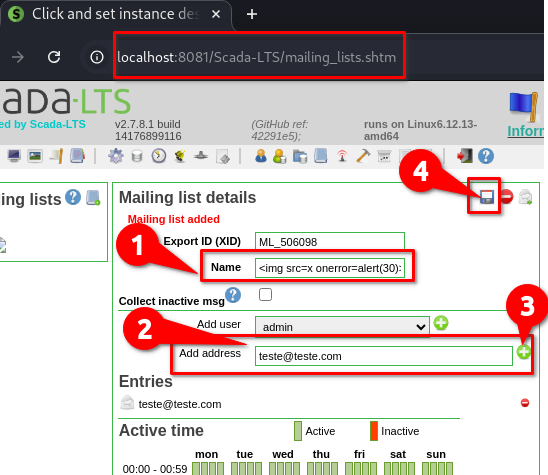
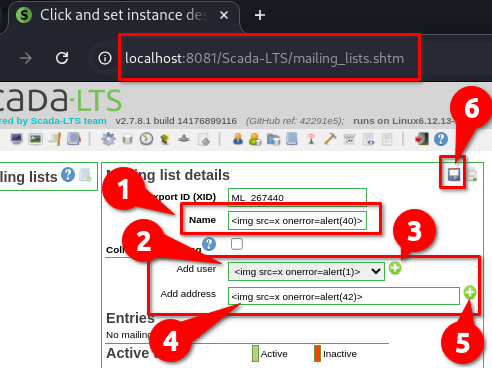
Update CVEs

diff --git a/CVEs/Scada-LTS/3.md b/CVEs/Scada-LTS/3.md
@@ -1,8 +1,8 @@
-# Cross-Site Scripting (XSS) Stored endpoint `mailing_lists.shtm` parameter `name`
+# Multiples Stored Cross-Site Scripting (XSS) in `mailing_lists.shtm`
 
 ### Summary
 
-<p align="justify">A Stored Cross-Site Scripting (XSS) vulnerability was identified in the <code>mailing_lists.shtm</code> endpoint of the Scada-LTS application. This vulnerability allows attackers to inject malicious scripts into the <code>name</code> parameter. The injected scripts are stored on the server and executed automatically whenever the affected page is accessed by users, posing a significant security risk.</p>
+<p align="justify">Multiples Stored Cross-Site Scripting (XSS) vulnerability was identified in the <code>mailing_lists.shtm</code> endpoint of the Scada-LTS application. This vulnerability allows attackers to inject malicious scripts into the <code>name</code>, <code>userList</code> and <code>address</code> parameters. The injected scripts are stored on the server and executed automatically whenever the affected page is accessed by users, posing a significant security risk.</p>
 
 ---
 
@@ -10,9 +10,9 @@
 
 Vulnerable Endpoint: `mailing_lists.shtm`
 
-Parameter: `name`
+Parameters: `name`,`userList` and `address`
 
-<p align="justify">The application fails to properly validate and sanitize user inputs in the <code>name</code> parameter. This lack of validation allows attackers to inject malicious scripts, which are then stored on the server. Whenever the affected page is accessed, the malicious payload is executed in the victim's browser, potentially compromising the user's data and system.</p>
+<p align="justify">The application fails to properly validate and sanitize user inputs in the <code>name</code>, <code>userList</code> and <code>address</code> parameters. This lack of validation allows attackers to inject malicious scripts, which are then stored on the server. Whenever the affected page is accessed, the malicious payload is executed in the victim's browser, potentially compromising the user's data and system.</p>
 
 ---
 
@@ -20,14 +20,21 @@ Parameter: `name`
 
 #### Step by Step:
 
-<p align="justify">Access vulnerable endpoint, insert the payload in second field (<code>"Name"</code>), in the fourth field (<code>"Add address"</code>) type any email like <code>"test@test.com"</code>, click on <code>"+"</code> to add the required address, click on <code>"disk"</code> to save and the payload will be activated automatically.</p>
+<p align="justify">Access vulnerable endpoint, insert the payload in second field (<code>"Name"</code>).</p>
+
+##
+<p align="justify"><b>Note:</b> As admin, you can add a test user in <code>users.shtm</code> page with the same payload, select the <code>test</code> user (named with the paylod) and click on <code>"+"</code> to add the xss in third field (<code>"Add user"</code>) (Steps 2 and 3). The payload will be activated automatically.</p>
+
+##
+
+<p align="justify">Insert the paylod in fourth field (<code>"Add address"</code>), click on <code>"+"</code> to add. The payload will be activated automatically. Then, click on <code>"disk"</code> to save and the payloads will be activated automatically.</p>
 
 ##
 
 #### Payload:
 
 ````html
-<img src=x onerror=alert(30)>
+<img src=x onerror=alert(40)>
 ````
 </br>
 
@@ -36,6 +43,10 @@ Parameter: `name`
 ![](/CVEs/images/storedXss31.png)
 
 ![](/CVEs/images/storedXss32.png)
+
+![](/CVEs/images/storedXss36.png)
+
+![](/CVEs/images/storedXss37.png)
 
 ----
 
@@ -58,8 +69,13 @@ Parameter: `name`
 
 ### Finder
 
-[Karina Gante](https://karinagante.github.io/)
+*Discovered with💜 by [Karina Gante](https://karinagante.github.io/).* 
+
+[![LinkedIn](https://skillicons.dev/icons?i=linkedin&theme=dark)](https://www.linkedin.com/in/karina-gante/)
+[![GitHub](https://skillicons.dev/icons?i=github&theme=dark)](https://www.github.com/KarinaGante/)
+[![gmail](https://skillicons.dev/icons?i=gmail&theme=dark)](mailto:karina.g@aluno.ifsp.edu.br)
+[![Instagram](https://skillicons.dev/icons?i=instagram&theme=dark)](https://www.instagram.com/karinovisk02/)
 
 ##
 
-*by [CVE-Hunters](https://github.com/CVE-Hunters/cve-hunters)*
+*Official Member of [CVE-Hunters](https://github.com/CVE-Hunters/cve-hunters)🏹*

diff --git a/CVEs/Scada-LTS/5.md b/CVEs/Scada-LTS/5.md
@@ -1,0 +1,80 @@
+# Stored Cross-Site Scripting (XSS) Injection via SVG File Upload Bypass
+
+### Summary
+
+<p align="justify">A Stored Cross-Site Scripting (XSS) via SVG File Upload Bypass vulnerability was identified in the <code>view_edit.shtm</code> endpoint of the Scada-LTS application. This vulnerability allows attackers to upload malicious files into the <code>backgroundImageMP</code> parameter. The injected files are stored on the server and executed automatically whenever the affected page is accessed by users, posing a significant security risk.</p>
+
+---
+
+### Details
+
+Vulnerable Endpoint: `view_edit.shtm`
+
+Parameter: `backgroundImageMP`
+
+Trigger Page: `/uploads/[ID].svg`
+
+<p align="justify">The application fails to properly validate and sanitize user inputs in the <code>backgroundImageMP</code> parameter. This lack of validation allows attackers to inject malicious scripts, which are then stored on the server. Whenever the affected page is accessed, the malicious payload is executed in the victim's browser, potentially compromising the user's data and system.</p>
+
+---
+
+### PoC
+
+#### Step by Step:
+
+<p align="justify">Save the payload in the <code>xss.svg</code> file.</p>
+
+<p align="justify">After, access the <code>views.shtm</code> page, and click on <code>"computer +"</code> to add a new <code>"view"</code>, click on <code>"Escolher arquivo"</code> button to choose the malicious file, then click on <code>"Upload image"</code> button to upload the file, after that, click on <code>"Save"</code> button. Access the file by the trigger page.</p>
+
+##
+
+#### Payload:
+
+````html
+<svg xmlns=""http://www.w3.org/2000/svg"" fill=""none"">
+  <script>
+    alert(""This is an XSS-POC from CVEHUNTERS"");
+  </script>
+</svg>
+````
+</br>
+
+![](/CVEs/images/storedXss38.png)
+
+![](/CVEs/images/storedXss39.png)
+
+![](/CVEs/images/storedXss40.png)
+
+![](/CVEs/images/storedXss41.png)
+
+----
+
+### Impact
+
+<p align="justify">
+<ul>
+  <li>Stealing session cookies: Attackers can use stolen session cookies to hijack a user's session and perform actions on their behalf.</li>
+  <li>Downloading malware: Attackers can trick users into downloading and installing malware on their computers.</li>
+  <li>Hijacking browsers: Attackers can hijack a user's browser or deliver browser-based exploits.</li>
+  <li>Stealing credentials: Attackers can steal a user's credentials.</li>
+  <li>Obtaining sensitive information: Attackers can obtain sensitive information stored in a user's account or in their browser.</li>
+  <li>Defacing websites: Attackers can deface a website by altering its content.</li>
+  <li>Misdirecting users: Attackers can change the instructions given to users who visit the target website, misdirecting their behavior.</li>
+  <li>Damaging a business's reputation: Attackers can damage a business's image or spread misinformation by defacing a corporate website.</li>
+</ul>
+</p>
+
+---
+
+### Finder
+
+*Discovered with💜 by [Karina Gante](https://karinagante.github.io/).* 
+
+[![LinkedIn](https://skillicons.dev/icons?i=linkedin&theme=dark)](https://www.linkedin.com/in/karina-gante/)
+[![GitHub](https://skillicons.dev/icons?i=github&theme=dark)](https://www.github.com/KarinaGante/)
+[![gmail](https://skillicons.dev/icons?i=gmail&theme=dark)](mailto:karina.g@aluno.ifsp.edu.br)
+[![Instagram](https://skillicons.dev/icons?i=instagram&theme=dark)](https://www.instagram.com/karinovisk02/)
+
+##
+
+*Official Member of [CVE-Hunters](https://github.com/CVE-Hunters/cve-hunters)🏹*

diff --git a/CVEs/Scada-LTS/2.md b/CVEs/Scada-LTS/2.md
@@ -1,8 +1,8 @@
-# Cross-Site Scripting (XSS) Stored endpoint `pointHierarchy/new/` via path parameter
+# Stored Cross-Site Scripting (XSS) in endpoint `pointHierarchy/new/` via path parameter
 
 ### Summary
 
-<p align="justify">A Stored Cross-Site Scripting (XSS) vulnerability was identified in the <code>pointHierarchySLTS</code> endpoint of the Scada-LTS application. This vulnerability allows attackers to inject malicious scripts via <code>path parameter</code> parameter. The injected scripts are stored on the server and executed automatically whenever the affected page is accessed by users, posing a significant security risk.</p>
+<p align="justify">A Stored Cross-Site Scripting (XSS) vulnerability was identified in the <code>pointHierarchySLTS</code> endpoint of the Scada-LTS application. This vulnerability allows attackers to inject malicious scripts via <code>path parameter</code>. The injected scripts are stored on the server and executed automatically whenever the affected page is accessed by users, posing a significant security risk.</p>
 
 ---
 
@@ -56,8 +56,13 @@ Vulnerable Endpoint: `pointHierarchy/new/`
 
 ### Finder
 
-[Karina Gante](https://karinagante.github.io/)
+*Discovered with💜 by [Karina Gante](https://karinagante.github.io/).* 
+
+[![LinkedIn](https://skillicons.dev/icons?i=linkedin&theme=dark)](https://www.linkedin.com/in/karina-gante/)
+[![GitHub](https://skillicons.dev/icons?i=github&theme=dark)](https://www.github.com/KarinaGante/)
+[![gmail](https://skillicons.dev/icons?i=gmail&theme=dark)](mailto:karina.g@aluno.ifsp.edu.br)
+[![Instagram](https://skillicons.dev/icons?i=instagram&theme=dark)](https://www.instagram.com/karinovisk02/)
 
 ##
 
-*by [CVE-Hunters](https://github.com/CVE-Hunters/cve-hunters)*
+*Official Member of [CVE-Hunters](https://github.com/CVE-Hunters/cve-hunters)🏹*

diff --git a/CVEs/i-educar/8.md b/CVEs/i-educar/8.md
@@ -1,4 +1,4 @@
-# Cross-Site Scripting (XSS) Stored endpoint `educar_motivo_afastamento_cad.php` parameter `nm_motivo`
+# Stored Cross-Site Scripting (XSS) in endpoint `educar_motivo_afastamento_cad.php` parameter `nm_motivo`
 
 ### Summary
 
@@ -60,8 +60,13 @@ Trigger Page: `/intranet/educar_motivo_afastamento_lst.php`
 
 ### Finder
 
-[Karina Gante](https://karinagante.github.io/)
+*Discovered with💜 by [Karina Gante](https://karinagante.github.io/).* 
+
+[![LinkedIn](https://skillicons.dev/icons?i=linkedin&theme=dark)](https://www.linkedin.com/in/karina-gante/)
+[![GitHub](https://skillicons.dev/icons?i=github&theme=dark)](https://www.github.com/KarinaGante/)
+[![gmail](https://skillicons.dev/icons?i=gmail&theme=dark)](mailto:karina.g@aluno.ifsp.edu.br)
+[![Instagram](https://skillicons.dev/icons?i=instagram&theme=dark)](https://www.instagram.com/karinovisk02/)
 
 ##
 
-*by [CVE-Hunters](https://github.com/CVE-Hunters/cve-hunters)*
+*Official Member of [CVE-Hunters](https://github.com/CVE-Hunters/cve-hunters)🏹*

diff --git a/CVEs/i-educar/3.md b/CVEs/i-educar/3.md
@@ -1,4 +1,4 @@
-# Cross-Site Scripting (XSS) Stored endpoint `public_municipio_cad.php` parameter `nome`
+# Stored Cross-Site Scripting (XSS) in endpoint `public_municipio_cad.php` parameter `nome`
 
 ### Summary
 
@@ -60,8 +60,13 @@ Trigger Page: `/intranet/public_municipio_lst.php`
 
 ### Finder
 
-[Karina Gante](https://karinagante.github.io/)
+*Discovered with💜 by [Karina Gante](https://karinagante.github.io/).* 
+
+[![LinkedIn](https://skillicons.dev/icons?i=linkedin&theme=dark)](https://www.linkedin.com/in/karina-gante/)
+[![GitHub](https://skillicons.dev/icons?i=github&theme=dark)](https://www.github.com/KarinaGante/)
+[![gmail](https://skillicons.dev/icons?i=gmail&theme=dark)](mailto:karina.g@aluno.ifsp.edu.br)
+[![Instagram](https://skillicons.dev/icons?i=instagram&theme=dark)](https://www.instagram.com/karinovisk02/)
 
 ##
 
-*by [CVE-Hunters](https://github.com/CVE-Hunters/cve-hunters)*
+*Official Member of [CVE-Hunters](https://github.com/CVE-Hunters/cve-hunters)🏹*

diff --git a/CVEs/i-educar/2.md b/CVEs/i-educar/2.md
@@ -1,4 +1,4 @@
-# Cross-Site Scripting (XSS) Stored endpoint `public_distrito_cad.php` parameter `nome`
+# Stored Cross-Site Scripting (XSS) in endpoint `public_distrito_cad.php` parameter `nome`
 
 ### Summary
 
@@ -60,8 +60,13 @@ Trigger Page: `/intranet/public_distrito_lst.php`
 
 ### Finder
 
-[Karina Gante](https://karinagante.github.io/)
+*Discovered with💜 by [Karina Gante](https://karinagante.github.io/).* 
+
+[![LinkedIn](https://skillicons.dev/icons?i=linkedin&theme=dark)](https://www.linkedin.com/in/karina-gante/)
+[![GitHub](https://skillicons.dev/icons?i=github&theme=dark)](https://www.github.com/KarinaGante/)
+[![gmail](https://skillicons.dev/icons?i=gmail&theme=dark)](mailto:karina.g@aluno.ifsp.edu.br)
+[![Instagram](https://skillicons.dev/icons?i=instagram&theme=dark)](https://www.instagram.com/karinovisk02/)
 
 ##
 
-*by [CVE-Hunters](https://github.com/CVE-Hunters/cve-hunters)*
+*Official Member of [CVE-Hunters](https://github.com/CVE-Hunters/cve-hunters)🏹*

diff --git a/CVEs/i-educar/6.md b/CVEs/i-educar/6.md
@@ -1,4 +1,4 @@
-# Cross-Site Scripting (XSS) Stored endpoint `educar_raca_cad.php` parameter `nm_raca`
+# Stored Cross-Site Scripting (XSS) in endpoint `educar_raca_cad.php` parameter `nm_raca`
 
 ### Summary
 
@@ -60,8 +60,13 @@ Trigger Page: `/intranet/educar_raca_lst.php`
 
 ### Finder
 
-[Karina Gante](https://karinagante.github.io/)
+*Discovered with💜 by [Karina Gante](https://karinagante.github.io/).* 
+
+[![LinkedIn](https://skillicons.dev/icons?i=linkedin&theme=dark)](https://www.linkedin.com/in/karina-gante/)
+[![GitHub](https://skillicons.dev/icons?i=github&theme=dark)](https://www.github.com/KarinaGante/)
+[![gmail](https://skillicons.dev/icons?i=gmail&theme=dark)](mailto:karina.g@aluno.ifsp.edu.br)
+[![Instagram](https://skillicons.dev/icons?i=instagram&theme=dark)](https://www.instagram.com/karinovisk02/)
 
 ##
 
-*by [CVE-Hunters](https://github.com/CVE-Hunters/cve-hunters)*
+*Official Member of [CVE-Hunters](https://github.com/CVE-Hunters/cve-hunters)🏹*

diff --git a/CVEs/i-educar/7.md b/CVEs/i-educar/7.md
@@ -1,4 +1,4 @@
-# Cross-Site Scripting (XSS) Stored endpoint `RegraAvaliacao/edit` parameter `nome`
+# Stored Cross-Site Scripting (XSS) in endpoint `RegraAvaliacao/edit` parameter `nome`
 
 ### Summary
 
@@ -62,8 +62,13 @@ Trigger Page: `/module/RegraAvaliacao/index`
 
 ### Finder
 
-[Karina Gante](https://karinagante.github.io/)
+*Discovered with💜 by [Karina Gante](https://karinagante.github.io/).* 
+
+[![LinkedIn](https://skillicons.dev/icons?i=linkedin&theme=dark)](https://www.linkedin.com/in/karina-gante/)
+[![GitHub](https://skillicons.dev/icons?i=github&theme=dark)](https://www.github.com/KarinaGante/)
+[![gmail](https://skillicons.dev/icons?i=gmail&theme=dark)](mailto:karina.g@aluno.ifsp.edu.br)
+[![Instagram](https://skillicons.dev/icons?i=instagram&theme=dark)](https://www.instagram.com/karinovisk02/)
 
 ##
 
-*by [CVE-Hunters](https://github.com/CVE-Hunters/cve-hunters)*
+*Official Member of [CVE-Hunters](https://github.com/CVE-Hunters/cve-hunters)🏹*

diff --git a/CVEs/i-educar/4.md b/CVEs/i-educar/4.md
@@ -1,4 +1,4 @@
-# Cross-Site Scripting (XSS) Stored endpoint `public_uf_cad.php` parameter `nome`
+# Stored Cross-Site Scripting (XSS) in endpoint `public_uf_cad.php` parameter `nome`
 
 ### Summary
 
@@ -60,8 +60,13 @@ Trigger Page: `/intranet/public_uf_lst.php`
 
 ### Finder
 
-[Karina Gante](https://karinagante.github.io/)
+*Discovered with💜 by [Karina Gante](https://karinagante.github.io/).* 
+
+[![LinkedIn](https://skillicons.dev/icons?i=linkedin&theme=dark)](https://www.linkedin.com/in/karina-gante/)
+[![GitHub](https://skillicons.dev/icons?i=github&theme=dark)](https://www.github.com/KarinaGante/)
+[![gmail](https://skillicons.dev/icons?i=gmail&theme=dark)](mailto:karina.g@aluno.ifsp.edu.br)
+[![Instagram](https://skillicons.dev/icons?i=instagram&theme=dark)](https://www.instagram.com/karinovisk02/)
 
 ##
 
-*by [CVE-Hunters](https://github.com/CVE-Hunters/cve-hunters)*
+*Official Member of [CVE-Hunters](https://github.com/CVE-Hunters/cve-hunters)🏹*

diff --git a/CVEs/Scada-LTS/4.md b/CVEs/Scada-LTS/4.md
@@ -1,4 +1,4 @@
-# Cross-Site Scripting (XSS) Stored endpoint `publisher_edit.shtm` parameter `name`
+# Stored Cross-Site Scripting (XSS) in endpoint `publisher_edit.shtm` parameter `name`
 
 ### Summary
 
@@ -60,8 +60,13 @@ Trigger Page: `publishers.shtm`
 
 ### Finder
 
-[Karina Gante](https://karinagante.github.io/)
+*Discovered with💜 by [Karina Gante](https://karinagante.github.io/).* 
+
+[![LinkedIn](https://skillicons.dev/icons?i=linkedin&theme=dark)](https://www.linkedin.com/in/karina-gante/)
+[![GitHub](https://skillicons.dev/icons?i=github&theme=dark)](https://www.github.com/KarinaGante/)
+[![gmail](https://skillicons.dev/icons?i=gmail&theme=dark)](mailto:karina.g@aluno.ifsp.edu.br)
+[![Instagram](https://skillicons.dev/icons?i=instagram&theme=dark)](https://www.instagram.com/karinovisk02/)
 
 ##
 
-*by [CVE-Hunters](https://github.com/CVE-Hunters/cve-hunters)*
+*Official Member of [CVE-Hunters](https://github.com/CVE-Hunters/cve-hunters)🏹*

diff --git a/CVEs/Scada-LTS/1.md b/CVEs/Scada-LTS/1.md
@@ -1,4 +1,4 @@
-# Cross-Site Scripting (XSS) Stored endpoint `scheduled_events.shtm` parameter `alias`
+# Stored Cross-Site Scripting (XSS) in endpoint `scheduled_events.shtm` parameter `alias`
 
 ### Summary
 
@@ -56,8 +56,13 @@ Parameter: `alias`
 
 ### Finder
 
-[Karina Gante](https://karinagante.github.io/)
+*Discovered with💜 by [Karina Gante](https://karinagante.github.io/).* 
+
+[![LinkedIn](https://skillicons.dev/icons?i=linkedin&theme=dark)](https://www.linkedin.com/in/karina-gante/)
+[![GitHub](https://skillicons.dev/icons?i=github&theme=dark)](https://www.github.com/KarinaGante/)
+[![gmail](https://skillicons.dev/icons?i=gmail&theme=dark)](mailto:karina.g@aluno.ifsp.edu.br)
+[![Instagram](https://skillicons.dev/icons?i=instagram&theme=dark)](https://www.instagram.com/karinovisk02/)
 
 ##
 
-*by [CVE-Hunters](https://github.com/CVE-Hunters/cve-hunters)*
+*Official Member of [CVE-Hunters](https://github.com/CVE-Hunters/cve-hunters)🏹*

diff --git a/CVEs/i-educar/5.md b/CVEs/i-educar/5.md
@@ -64,8 +64,13 @@ Trigger Page: `/intranet/empresas_lst.php`
 
 ### Finder
 
-[Karina Gante](https://karinagante.github.io/)
+*Discovered with💜 by [Karina Gante](https://karinagante.github.io/).* 
+
+[![LinkedIn](https://skillicons.dev/icons?i=linkedin&theme=dark)](https://www.linkedin.com/in/karina-gante/)
+[![GitHub](https://skillicons.dev/icons?i=github&theme=dark)](https://www.github.com/KarinaGante/)
+[![gmail](https://skillicons.dev/icons?i=gmail&theme=dark)](mailto:karina.g@aluno.ifsp.edu.br)
+[![Instagram](https://skillicons.dev/icons?i=instagram&theme=dark)](https://www.instagram.com/karinovisk02/)
 
 ##
 
-*by [CVE-Hunters](https://github.com/CVE-Hunters/cve-hunters)*
+*Official Member of [CVE-Hunters](https://github.com/CVE-Hunters/cve-hunters)🏹*
